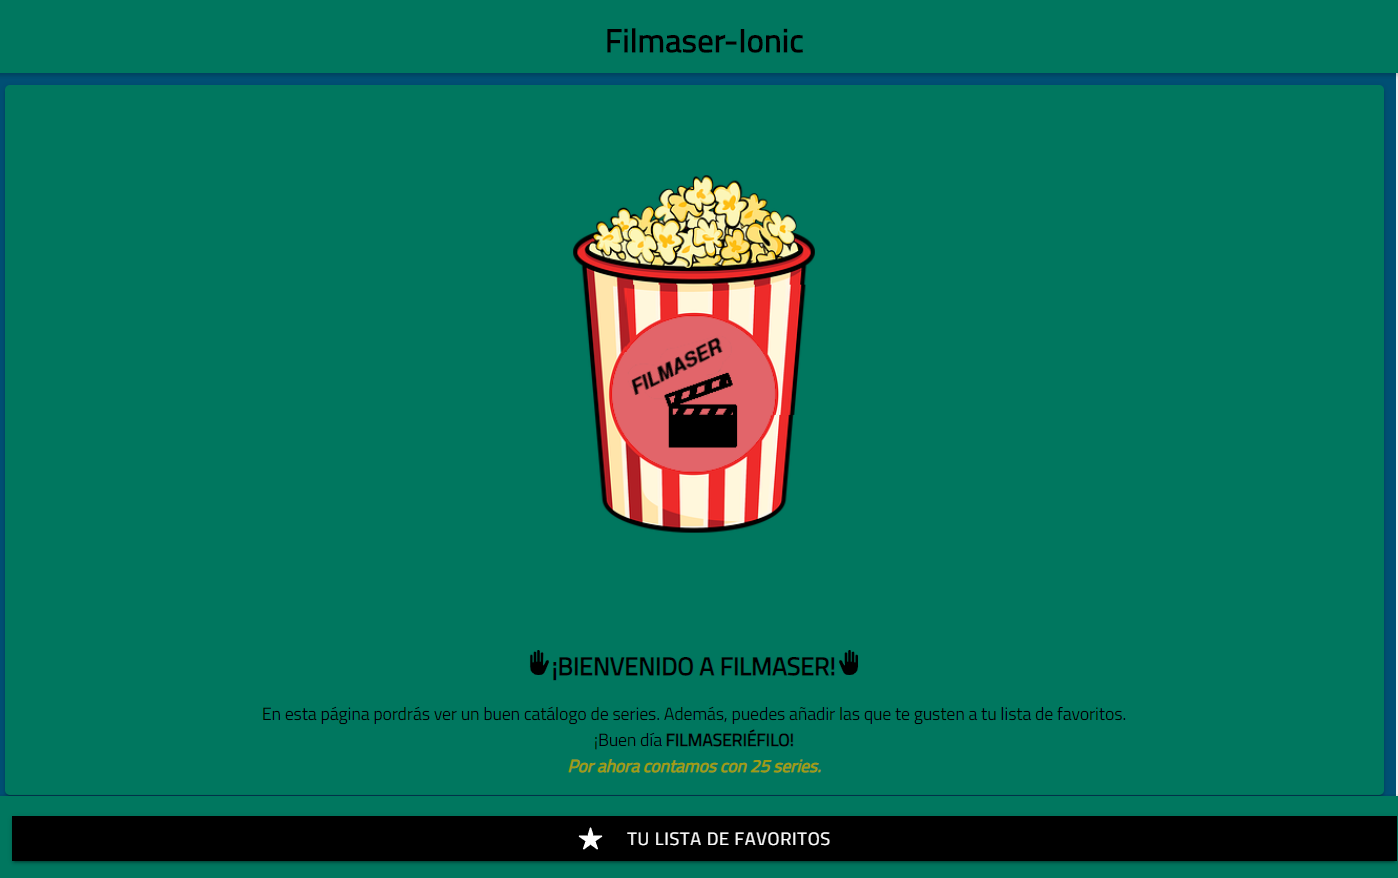
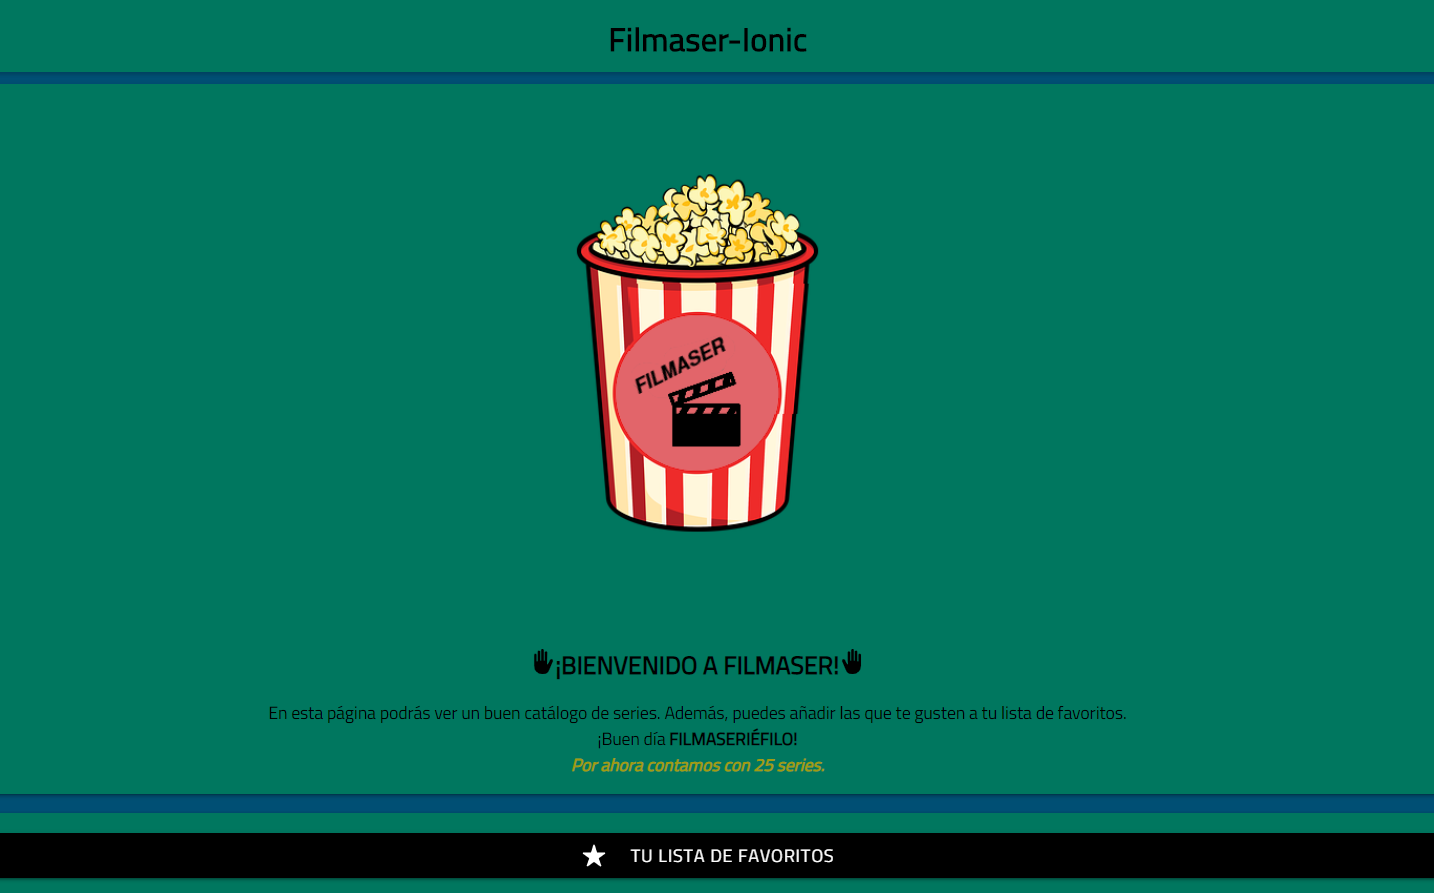
Subiendo presentacion.png

Changed region(s): [[0.0, 0.0615, 1.0, 0.9841], [0.3999, 0.1845, 0.5844, 0.615], [0.3999, 0.0308, 0.5844, 0.0615]]

diff --git a/src/app/home/home.page.html b/src/app/home/home.page.html
@@ -18,7 +18,7 @@
       </ion-card-title>
     </ion-card-header>
     <ion-card-content>
-      En esta página pordrás ver un buen catálogo de series. Además, puedes añadir las que te gusten a tu lista de
+      En esta página podrás ver un buen catálogo de series. Además, puedes añadir las que te gusten a tu lista de
       favoritos.<br>
       ¡Buen día <b>FILMASERIÉFILO!</b><br>
       <i id="total">Por ahora contamos con 25 series.</i>
